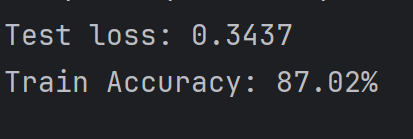
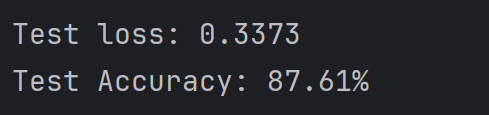
v1.0

diff --git a/src/test.py b/src/test.py
@@ -50,7 +50,7 @@ def eval_test(dataloader, model, criterion):
 
     # Print results
     print(f"Test loss: {test_loss:.4f}")
-    print(f"Train Accuracy: {100 * correct:.2f}%")
+    print(f"Test Accuracy: {100 * correct:.2f}%")
 
     return test_loss, correct
 

diff --git a/app/models/model.py b/app/models/model.py
@@ -23,6 +23,3 @@ class NeuralNet(nn.Module):
         x = self.flatten(x)
         outputs = self.stack(x)
         return outputs
-
-NeuralNet = NeuralNet()
-print(NeuralNet)

diff --git a/README.md b/README.md
@@ -51,7 +51,6 @@ The results of the training and evaluation process are visualized in the followi
 
 ### Test Accuracy
 ![test.png](images/test.png)
-
 ### Predictions on Test Data
 ![predict.png](images/predict.png)
 
